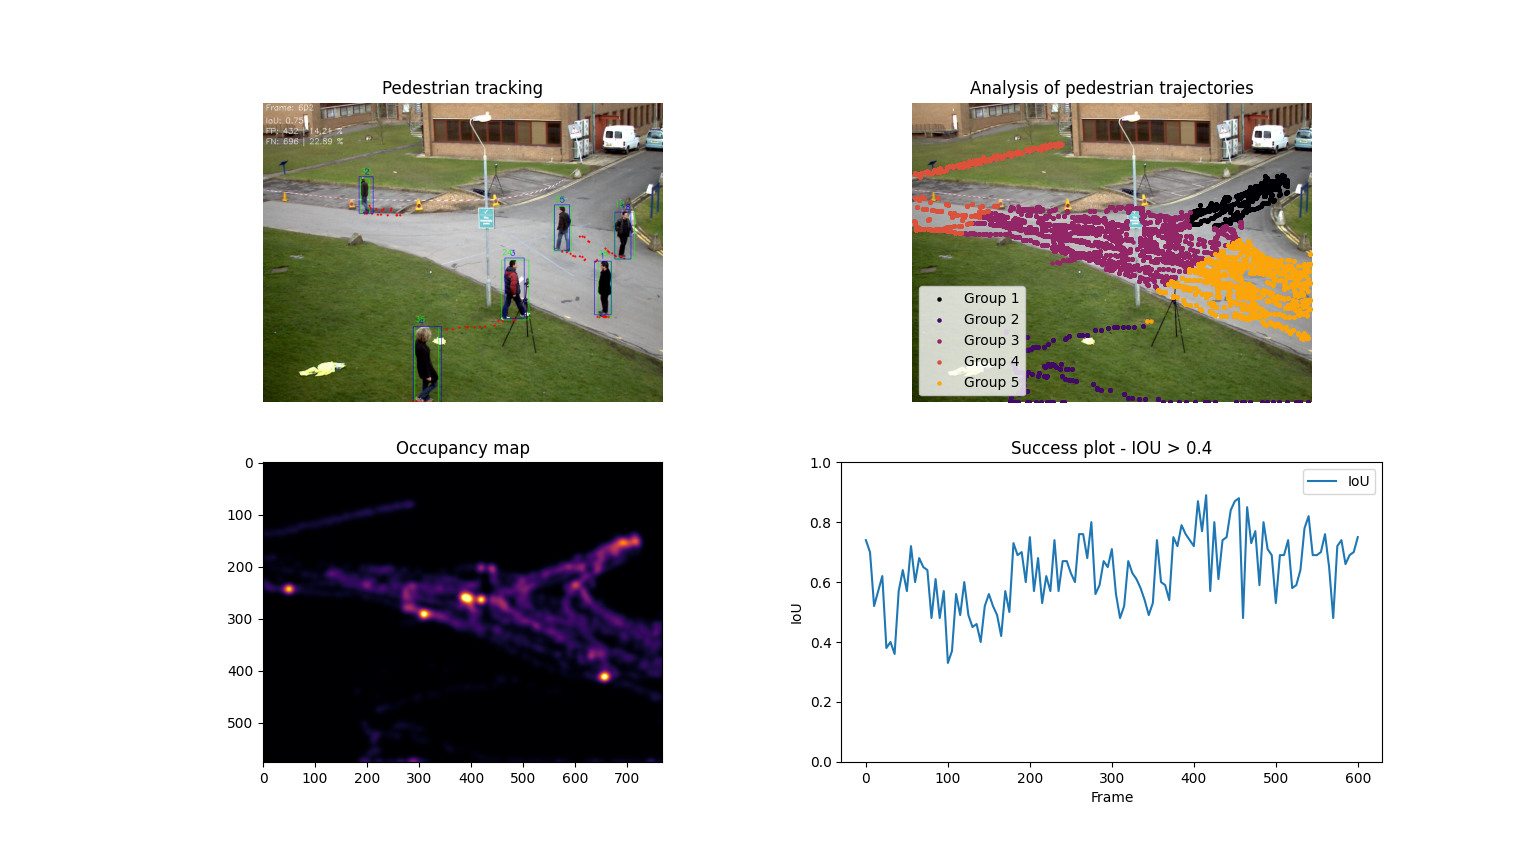
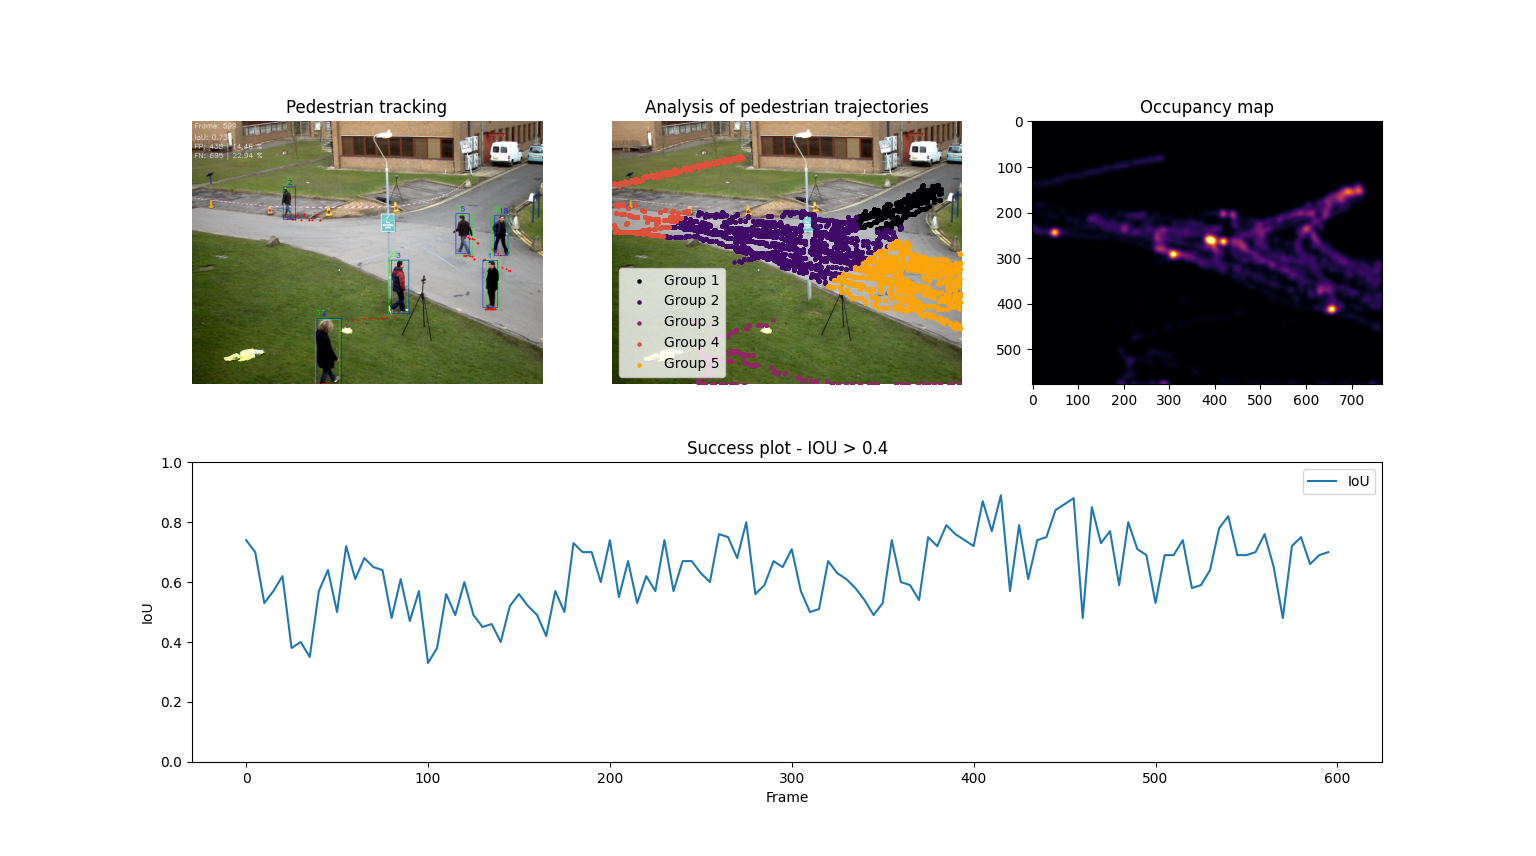
Changed fig layout

diff --git a/main.py b/main.py
@@ -10,13 +10,13 @@ from sklearn.mixture import GaussianMixture
 show_gt = True
 thr = 50 # Used for background subtraction
 minArea = 175 # Minimal area to be considered a component
-maxDistance = 25 #Centroid:25  # Maximal distance between frames of each person
+maxDistance = 25  # Maximal distance between frames of each person
 max_lost_frames = 7  # Maximum number of frames a track can be lost before it is removed
-path_len = 15 # length of displayed trajectory
+path_len = 15 # Length of displayed trajectory
 update_interval = 3 # How often is the figure redrawn
 next_id = 1  # ID to assign to the next detected pedestrian
 frame = 1 # Number of current frame
-iou_thr = 0.4
+iou_thr = 0.4 # Threshold for success rate - True positives
 
 # Define colormap and normalize colors based on number of pedestrians
 colormap = plt.cm.get_cmap('inferno')
@@ -42,34 +42,41 @@ trajectories = []
 em_update_interval = 10  # Update the EM algorithm every 10 frames
 
 # Initialize an empty heatmap
-heatmap = np.zeros((height, width)) # 3 - Frame width, 4 - Frame height
+heatmap = np.zeros((height, width))
 
 # Initialize the plot for IoU
 plt.ion()
-fig, axes = plt.subplots(nrows=2, ncols=2, figsize=(14, 8))
+fig = plt.figure(figsize=(14, 8))
+gs = fig.add_gridspec(2,3)
 fig.canvas.manager.set_window_title('Pedestrian tracking and analysis') 
 
 # Get the current figure manager and set the window to fullscreen
 manager = plt.get_current_fig_manager()
 manager.window.showMaximized()
 
+# Subplots
+ax1 = fig.add_subplot(gs[0, 0])
+ax2 = fig.add_subplot(gs[0, 1])
+ax3 = fig.add_subplot(gs[0, 2])
+ax4 = fig.add_subplot(gs[1, :])
+
 # Tracked image
-axes[0, 0].set_title('Pedestrian tracking')
-axes[0, 0].imshow(np.zeros((height, width)))
-axes[0, 0].set_axis_off()
-
-# Heatmap
-axes[1, 0].imshow(heatmap)
-axes[1, 0].set_title('Occupancy map')
-
-# IoU plot
-axes[1, 1].plot(heatmap)
-axes[1, 1].set_title(f'Success plot - IOU > {iou_thr}')
+ax1.set_title('Pedestrian tracking')
+ax1.imshow(np.zeros((height, width)))
+ax1.set_axis_off()
 
 # EA analysis
-axes[0, 1].imshow(np.zeros((height, width)))
-axes[0, 1].set_title('Analysis of pedestrian trajectories')
-axes[0, 1].set_axis_off()
+ax2.imshow(np.zeros((height, width)))
+ax2.set_title('Analysis of pedestrian trajectories')
+ax2.set_axis_off()
+
+# Heatmap
+ax3.imshow(heatmap)
+ax3.set_title('Occupancy map')
+
+# IoU plot
+ax4.plot(heatmap)
+ax4.set_title(f'Success plot - IOU > {iou_thr}')
 
 ############################################################################################
 def getBackground(cap, n=25):
@@ -179,7 +186,6 @@ def compute_iou(bbox1, bbox2):
     x2_bbox2 = x1_bbox2 + w_bbox2
     y2_bbox1 = y1_bbox1 + h_bbox1
     y2_bbox2 = y1_bbox2 + h_bbox2
-
 
     # Calculate the intersection coordinates
     x1_intersection = max(x1_bbox1, x1_bbox2)
@@ -444,43 +450,43 @@ while cap.isOpened():
         cv2.putText(img_track, f"IoU: {avg_iou}", (5,40), cv2.FONT_HERSHEY_SIMPLEX, 0.5, (255, 255, 255), 1)
         cv2.putText(img_track, f"FP: {false_positives} | {round(false_positives / total_detections * 100, 2)} %", (5,60), cv2.FONT_HERSHEY_SIMPLEX, 0.5, (255, 255, 255), 1)
         cv2.putText(img_track, f"FN: {ground_truth_count - true_positives} | {round((ground_truth_count - true_positives) / total_detections * 100, 2)} %", (5,80), cv2.FONT_HERSHEY_SIMPLEX, 0.5, (255, 255, 255), 1)
-        axes[0,0].images[0].set_data(cv2.cvtColor(img_track, cv2.COLOR_BGR2RGB))
+        ax1.images[0].set_data(cv2.cvtColor(img_track, cv2.COLOR_BGR2RGB))
 
     # Display heatmap
     smoothed_heatmap = gaussian_filter(heatmap, sigma=6)
     showHeatmap = (colormap(smoothed_heatmap) * 2**32).astype(np.uint32)[:,:,:3]
-    axes[1, 0].images[0].set_data(colormap(smoothed_heatmap))
+    ax3.images[0].set_data(colormap(smoothed_heatmap))
 
     # Update the IoU plot -> every 5 values
-    axes[1,1].clear()
-    axes[1,1].set_ylim(0,1)
+    ax4.clear()
+    ax4.set_ylim(0,1)
     subset_iou_values = iou_values[::5]
     x_values = list(range(0, len(iou_values), 5))
 
     # Plot the subset values with the corresponding x-axis values
-    axes[1,1].plot(x_values, subset_iou_values, label='IoU')
-    axes[1,1].legend()
-    axes[1,1].set_xlabel('Frame')
-    axes[1,1].set_ylabel('IoU')
-    axes[1,1].set_title(f'Success plot - IOU > {iou_thr}')
+    ax4.plot(x_values, subset_iou_values, label='IoU')
+    ax4.legend()
+    ax4.set_xlabel('Frame')
+    ax4.set_ylabel('IoU')
+    ax4.set_title(f'Success plot - IOU > {iou_thr}')
 
     # EM
     if frame % em_update_interval == 0 and len(trajectories) > 0:
         trajectories_data = np.vstack(trajectories)
         labels = apply_em(trajectories_data, n_components)
 
-        axes[0, 1].clear()
-        axes[0, 1].imshow(cv2.cvtColor(bg, cv2.COLOR_BGR2RGB))
-        axes[0, 1].set_title('Analysis of pedestrian trajectories')
+        ax2.clear()
+        ax2.imshow(cv2.cvtColor(bg, cv2.COLOR_BGR2RGB))
+        ax2.set_title('Analysis of pedestrian trajectories')
         
         for i, label in enumerate(np.unique(labels)):
             traj_data = trajectories_data[labels == label]
-            axes[0, 1].scatter(traj_data[:, 0], traj_data[:, 1], s=5, color=colormap(i / len(np.unique(labels))), label=f"Group {i + 1}")
+            ax2.scatter(traj_data[:, 0], traj_data[:, 1], s=5, color=colormap(i / len(np.unique(labels))), label=f"Group {i + 1}")
 
-        axes[0, 1].set_xlim(0, width)
-        axes[0, 1].set_ylim(height, 0)
-        axes[0, 1].legend()
-        axes[0, 1].set_axis_off()
+        ax2.set_xlim(0, width)
+        ax2.set_ylim(height, 0)
+        ax2.legend()
+        ax2.set_axis_off()
     
     # Update the IoU plot only if the current frame is a multiple of update_interval
     if frame % update_interval == 0:        
